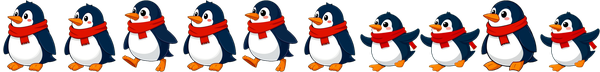
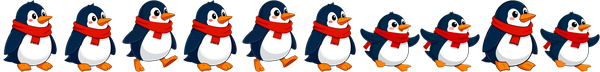
fix(gfx): FLUX-Pinguin schaute verkehrt herum (Basis nach links)
- flux_cutout.build_pengu spiegelt die FLUX-Posen horizontal -> Basis schaut
  nach rechts (Spiel-Konvention; facing<0 wird gespiegelt). Behebt 'verkehrt
  herum' im Spiel UND im Intro (Intro nutzt Walk-Frames ohne Flip)
- pengu.png / pengu_big.png neu

diff --git a/tools/asset_pipeline/flux_cutout.py b/tools/asset_pipeline/flux_cutout.py
@@ -125,6 +125,10 @@ def build_pengu():
         print("keine Pinguin-Posen (flux_src/pengu_stand.png fehlt) – übersprungen")
         return
     walk = walk or stand; jump = jump or stand; duck = duck or stand
+    # FLUX-Pinguin schaut nach links; das Spiel erwartet Basis nach RECHTS
+    # (facing<0 wird gespiegelt). Deshalb alle Posen einmal horizontal spiegeln.
+    stand, walk, jump, duck = (im.transpose(Image.FLIP_LEFT_RIGHT)
+                               for im in (stand, walk, jump, duck))
 
     def sheet(fw, fh, path):
         # 10 Frames: idle0,idle1,walk0,walk1,walk2,walk3,jump,fall,duck,throw